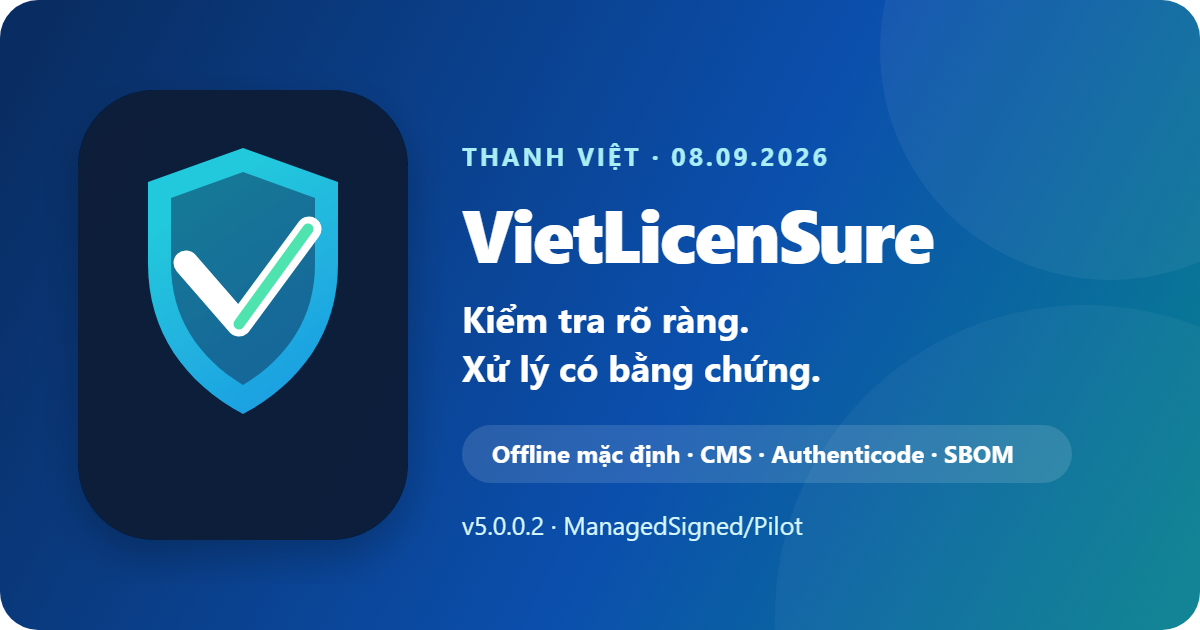
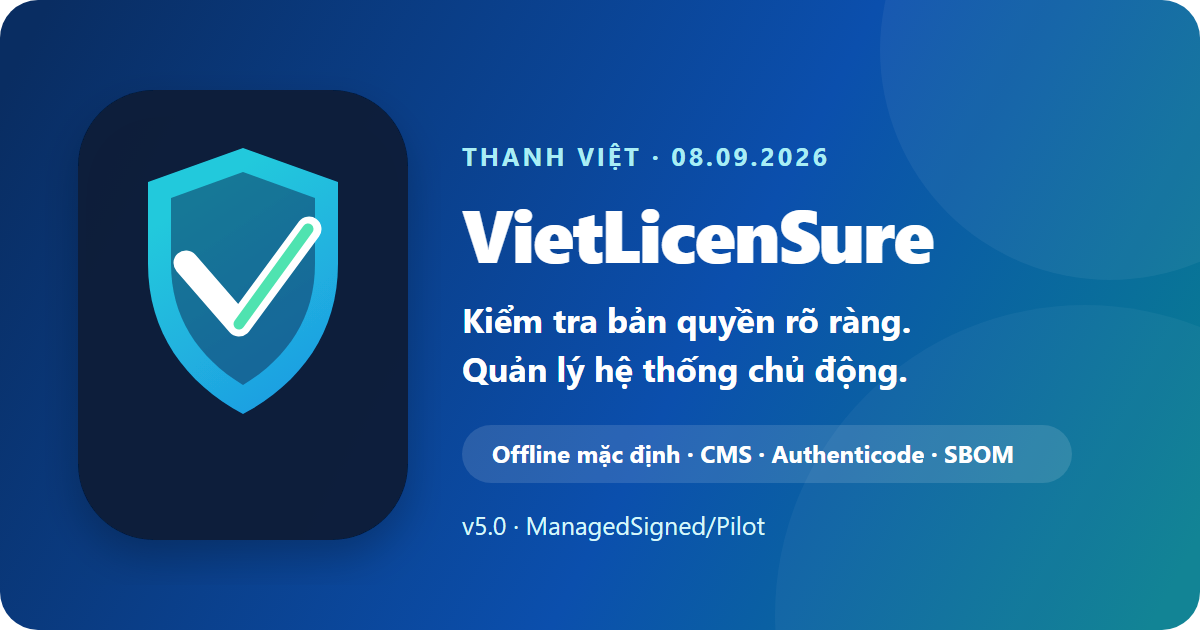
release(v5.0): publish canonical release and complete history

diff --git a/docs/index.html b/docs/index.html
@@ -27,10 +27,10 @@
     "name":"VietLicenSure",
     "applicationCategory":"UtilitiesApplication",
     "operatingSystem":"Windows 10, Windows 11",
-    "softwareVersion":"5.0.0.2",
+    "softwareVersion":"5.0",
     "dateModified":"2026-09-08",
-    "downloadUrl":"https://github.com/thanhvietithopnghia-rgb/VietLicenSure/releases/download/v5.0.0.2/VietLicenSure-v5.0.exe",
-    "releaseNotes":"https://github.com/thanhvietithopnghia-rgb/VietLicenSure/releases/tag/v5.0.0.2",
+    "downloadUrl":"https://github.com/thanhvietithopnghia-rgb/VietLicenSure/releases/download/v5.0/VietLicenSure-v5.0.exe",
+    "releaseNotes":"https://github.com/thanhvietithopnghia-rgb/VietLicenSure/releases/tag/v5.0",
     "author":{"@type":"Person","name":"Thanh Việt"},
     "offers":{"@type":"Offer","price":"0","priceCurrency":"VND"}
   }
@@ -60,17 +60,18 @@
 
   <div id="top" class="wrap hero">
     <div>
-      <div class="eyebrow">v5.0.0.2 · ManagedSigned/Pilot · 08/09/2026</div>
-      <h1>Kiểm tra rõ ràng.<br>Xử lý có bằng chứng.</h1>
-      <p class="lead"><strong>VietLicenSure</strong> là công cụ miễn phí dành cho người dùng Windows, kỹ thuật viên và quản trị viên cần kiểm tra trạng thái Windows, Office và phần mềm đã cài. Công cụ gom kết quả về một nơi, giải thích bằng chứng, tạo báo cáo đã che định danh và chỉ khắc phục sau bước xem trước — thay vì buộc người dùng tự ghép nhiều lệnh rời rạc.</p>
+      <div class="eyebrow">v5.0 · ManagedSigned/Pilot · 08/09/2026</div>
+      <h1>Kiểm tra bản quyền rõ ràng.<br>Quản lý hệ thống chủ động.</h1>
+      <p><strong>An tâm sử dụng.</strong></p>
+      <p class="lead"><strong>VietLicenSure — Phần mềm kiểm tra và quản lý bản quyền hệ thống</strong> hỗ trợ người dùng cá nhân, kỹ thuật viên, nhân viên IT và doanh nghiệp kiểm tra Windows, Microsoft Office/Microsoft 365, phần mềm đã cài và thông tin hệ thống. VietLicenSure gom kết quả về một nơi, giải thích bằng chứng, hỗ trợ kiểm kê và tạo báo cáo đã che định danh — thay vì buộc người dùng tự ghép nhiều lệnh rời rạc.</p>
       <div class="badges"><span class="badge">Offline mặc định</span><span class="badge">Không telemetry</span><span class="badge">Catalog ký số</span><span class="badge">Có backup &amp; hậu kiểm</span></div>
-      <div class="actions"><a class="button primary" href="https://github.com/thanhvietithopnghia-rgb/VietLicenSure/releases/download/v5.0.0.2/VietLicenSure-v5.0.exe" download>Tải VietLicenSure</a><a class="button secondary" href="https://github.com/thanhvietithopnghia-rgb/VietLicenSure/releases/tag/v5.0.0.2">Mở trang Releases</a><a class="button secondary" href="huong-dan.html">Hướng dẫn người mới</a></div>
+      <div class="actions"><a class="button primary" href="https://github.com/thanhvietithopnghia-rgb/VietLicenSure/releases/download/v5.0/VietLicenSure-v5.0.exe" download>Tải VietLicenSure</a><a class="button secondary" href="https://github.com/thanhvietithopnghia-rgb/VietLicenSure/releases/tag/v5.0">Mở trang Releases</a><a class="button secondary" href="huong-dan.html">Hướng dẫn người mới</a></div>
     </div>
     <aside id="verify-official-build" class="verify">
       <h2>Xác minh trước khi chạy</h2>
       <p>Tệp chính thức: <strong>VietLicenSure-v5.0.exe</strong></p>
-      <div class="hash"><div class="hash-label"><span>SHA-256</span><button class="copy" type="button" data-copy-target="release-hash">Sao chép</button></div><code id="release-hash">EE9F49A2077C85D81C4D243FEC26209ED15E0418E209FF588F887C2CFC4AC4C7</code></div>
-      <p><strong>Build ID:</strong> 5.0.0.2-production-20260908</p>
+      <div class="hash"><div class="hash-label"><span>SHA-256</span><button class="copy" type="button" data-copy-target="release-hash">Sao chép</button></div><code id="release-hash">586E6D58F70CD501E95BE8735D6C739068822786EB0E7BFEB7C573AEF6A57849</code></div>
+      <p><strong>Build ID:</strong> 5.0-production-20260908</p>
       <p>Chạy <code>VERIFY-RELEASE.cmd</code> trong gói để kiểm tra checksum, bốn chữ ký CMS, chứng thư, Authenticode, manifest và SBOM. <a href="https://github.com/thanhvietithopnghia-rgb/VietLicenSure/blob/main/RELEASE-VERIFICATION-v5.0.md">Đọc quy trình đầy đủ</a>.</p>
     </aside>
   </div>
@@ -101,8 +102,8 @@
 
     <section id="versions" class="wrap">
       <div class="kicker">Lịch sử sản phẩm</div>
-      <h2>v5.0 khác gì so với v4.8 và v4.9?</h2>
-      <div class="table-wrap"><table class="compare"><thead><tr><th>Nhóm</th><th>v4.8</th><th>v4.9</th><th>v5.0.0.2</th></tr></thead><tbody><tr><td>Nền tảng</td><td>Baseline kiến trúc, Offline/reporting</td><td>Siết nguồn gốc và catalog</td><td class="current">Hợp đồng mô-đun, dashboard thích ứng, ManagedSigned</td></tr><tr><td>Chuỗi phát hành</td><td>Hash và hardening nền</td><td>Provenance/chính sách mã nguồn</td><td class="current">Tập tệp đóng, 4 CMS, cert công bố, Authenticode, SBOM</td></tr><tr><td>Quét phần mềm</td><td>Windows/Office và inventory nền</td><td>Catalog mở rộng, bằng chứng thận trọng</td><td class="current">Quick/Standard/Deep, budget và trust gate</td></tr><tr><td>Khắc phục</td><td>Backup và luồng an toàn</td><td>Evidence threshold chặt hơn</td><td class="current">Preview, scope-lock, UAC theo nhu cầu, hậu kiểm/rollback</td></tr><tr><td>Trải nghiệm</td><td>Giao diện chức năng</td><td>Bổ sung trợ lý/chính sách</td><td class="current">Dark/light, DPI, Result Center và tài liệu trong ứng dụng</td></tr></tbody></table></div>
+      <h2>v5.0 — bản nâng cấp trực tiếp tiếp theo của v4.9</h2>
+      <div class="table-wrap"><table class="compare"><thead><tr><th>Nhóm</th><th>v4.8</th><th>v4.9</th><th>v5.0</th></tr></thead><tbody><tr><td>Nền tảng</td><td>Baseline kiến trúc, Offline/reporting</td><td>Siết nguồn gốc và catalog</td><td class="current">Hợp đồng mô-đun, dashboard thích ứng, ManagedSigned</td></tr><tr><td>Chuỗi phát hành</td><td>Hash và hardening nền</td><td>Provenance/chính sách mã nguồn</td><td class="current">Tập tệp đóng, 4 CMS, cert công bố, Authenticode, SBOM</td></tr><tr><td>Quét phần mềm</td><td>Windows/Office và inventory nền</td><td>Catalog mở rộng, bằng chứng thận trọng</td><td class="current">Quick/Standard/Deep, budget và trust gate</td></tr><tr><td>Khắc phục</td><td>Backup và luồng an toàn</td><td>Evidence threshold chặt hơn</td><td class="current">Preview, scope-lock, UAC theo nhu cầu, hậu kiểm/rollback</td></tr><tr><td>Trải nghiệm</td><td>Giao diện chức năng</td><td>Bổ sung trợ lý/chính sách</td><td class="current">Dark/light, DPI, Result Center và tài liệu trong ứng dụng</td></tr></tbody></table></div>
     </section>
 
     <section class="wrap">
@@ -114,13 +115,13 @@
     <section id="documents" class="wrap docs">
       <div class="kicker">Tài liệu tách theo nhu cầu</div>
       <h2>Không cần đọc một trang thật dài</h2>
-      <div class="grid three"><article class="card"><h3>Người mới</h3><p><a href="huong-dan.html">Hướng dẫn từng bước</a><br>Tải, xác minh, chạy, đọc và xử lý kết quả.</p></article><article class="card"><h3>Xác minh phát hành</h3><p><a href="https://github.com/thanhvietithopnghia-rgb/VietLicenSure/blob/main/RELEASE-VERIFICATION-v5.0.md">Checksum, CMS và Authenticode</a><br>Cách phân biệt lỗi chữ ký thật với lỗi line ending.</p></article><article class="card"><h3>Kiến trúc &amp; an toàn</h3><p><a href="https://github.com/thanhvietithopnghia-rgb/VietLicenSure/blob/main/DOCUMENTATION-MAP-v5.0.md">Bản đồ tài liệu</a><br><a href="https://github.com/thanhvietithopnghia-rgb/VietLicenSure/blob/main/THREAT-MODEL-v5.0.md">Mô hình đe dọa v5.0</a></p></article><article class="card"><h3>Thay đổi phiên bản</h3><p><a href="https://github.com/thanhvietithopnghia-rgb/VietLicenSure/releases/tag/v5.0.0.2">Release notes v5.0.0.2</a><br>Phiên bản, tài sản tải và ghi chú kênh phát hành.</p></article><article class="card"><h3>Giới hạn</h3><p><a href="https://github.com/thanhvietithopnghia-rgb/VietLicenSure/blob/main/KNOWN-LIMITATIONS-v5.0.md">Known limitations</a><br>Những điều công cụ chưa hoặc không thể bảo đảm.</p></article><article class="card"><h3>Mã nguồn</h3><p><a href="https://github.com/thanhvietithopnghia-rgb/VietLicenSure/blob/main/SOURCE-POLICY-v4.9.md">Chính sách từ v4.9</a><br>Phạm vi sử dụng và quy trình xin quyền truy cập.</p></article></div>
+      <div class="grid three"><article class="card"><h3>Người mới</h3><p><a href="huong-dan.html">Hướng dẫn từng bước</a><br>Tải, xác minh, chạy, đọc và xử lý kết quả.</p></article><article class="card"><h3>Xác minh phát hành</h3><p><a href="https://github.com/thanhvietithopnghia-rgb/VietLicenSure/blob/main/RELEASE-VERIFICATION-v5.0.md">Checksum, CMS và Authenticode</a><br>Cách phân biệt lỗi chữ ký thật với lỗi line ending.</p></article><article class="card"><h3>Kiến trúc &amp; an toàn</h3><p><a href="https://github.com/thanhvietithopnghia-rgb/VietLicenSure/blob/main/DOCUMENTATION-MAP-v5.0.md">Bản đồ tài liệu</a><br><a href="https://github.com/thanhvietithopnghia-rgb/VietLicenSure/blob/main/THREAT-MODEL-v5.0.md">Mô hình đe dọa v5.0</a></p></article><article class="card"><h3>Thay đổi phiên bản</h3><p><a href="https://github.com/thanhvietithopnghia-rgb/VietLicenSure/releases/tag/v5.0">Release notes v5.0</a><br>Phiên bản, tài sản tải và ghi chú kênh phát hành.</p></article><article class="card"><h3>Giới hạn</h3><p><a href="https://github.com/thanhvietithopnghia-rgb/VietLicenSure/blob/main/KNOWN-LIMITATIONS-v5.0.md">Known limitations</a><br>Những điều công cụ chưa hoặc không thể bảo đảm.</p></article><article class="card"><h3>Mã nguồn</h3><p><a href="https://github.com/thanhvietithopnghia-rgb/VietLicenSure/blob/main/SOURCE-POLICY-v4.9.md">Chính sách từ v4.9</a><br>Phạm vi sử dụng và quy trình xin quyền truy cập.</p></article></div>
     </section>
 
     <section id="project" class="wrap">
       <div class="kicker">Tác giả và dự án</div>
       <h2>Một dự án độc lập, công khai kênh hỗ trợ</h2>
-      <div class="grid"><article class="card"><h3>Thanh Việt · tác giả và maintainer</h3><p>VietLicenSure được phát triển để biến các kiểm tra license rời rạc thành một quy trình có thể giải thích, xác minh và hoàn tác. Dự án tiếp nhận báo lỗi, đề xuất, tài liệu và kiểm thử cộng đồng; mã nguồn được quản lý theo chính sách truy cập có kiểm soát.</p></article><article class="card"><h3>Trạng thái phát hành</h3><p>v5.0.0.2 đang ở kênh <strong>ManagedSigned/Pilot</strong>, không gắn nhãn Public Stable. Kiểm thử cục bộ không được dùng thay cho ma trận Windows 10/11 sạch và duyệt độc lập.</p></article></div>
+      <div class="grid"><article class="card"><h3>Từ Tool Kiểm Tra đến VietLicenSure</h3><p>Dự án trước đây mang tên <strong>Tool Kiểm Tra — Công cụ kiểm tra máy và bản quyền phần mềm</strong>. Khi được mở rộng từ kiểm tra đơn lẻ sang kiểm kê, phân tích bằng chứng, báo cáo và hỗ trợ quản lý thiết bị, dự án đổi tên thành <strong>VietLicenSure — Phần mềm kiểm tra và quản lý bản quyền hệ thống</strong>. v5.0 là bản nâng cấp trực tiếp tiếp theo của v4.9.</p></article><article class="card"><h3>Thanh Việt · tác giả và người phát triển</h3><p>Tác giả là một nhân viên văn phòng có niềm đam mê với lập trình. VietLicenSure ra đời từ mong muốn thay nhiều lệnh và công cụ rời rạc bằng một quy trình dễ sử dụng, giúp mọi người giảm thời gian kiểm tra máy tính và giúp bộ phận IT, doanh nghiệp kiểm kê rõ ràng hơn.</p></article><article class="card"><h3>Cập nhật an toàn</h3><p>Khi người dùng bật Online, VietLicenSure tự kiểm tra bản v5.0 mới nhất. Updater chỉ thay tệp sau khi người dùng chấp thuận và các bước xác minh CMS, SHA-256, Authenticode cùng signer đã ghim đều đạt.</p></article><article class="card"><h3>Trạng thái phát hành</h3><p>v5.0 đang ở kênh <strong>ManagedSigned/Pilot</strong>, không gắn nhãn Public Stable. Kiểm thử cục bộ không được dùng thay cho ma trận Windows 10/11 sạch và duyệt độc lập.</p></article></div>
       <div class="stats" aria-label="Số liệu kho GitHub cập nhật ngày 08/09/2026"><div class="stat"><strong>8</strong><span>GitHub stars</span></div><div class="stat"><strong>5</strong><span>forks</span></div><div class="stat"><strong>11</strong><span>releases</span></div><div class="stat"><strong>2</strong><span>contributors</span></div></div><p class="contact-note">Số liệu tĩnh được ghi nhận từ kho GitHub công khai ngày 08/09/2026 và có thể thay đổi.</p>
     </section>
 

diff --git a/docs/huong-dan.html b/docs/huong-dan.html
@@ -13,11 +13,11 @@
 <body>
   <header class="wrap"><a class="brand" href="index.html"><img src="logo.svg" width="42" height="42" alt="">VietLicenSure</a><a href="index.html">← Trang chủ</a></header>
   <main class="wrap">
-    <section class="hero"><div class="tag">Hướng dẫn người mới · v5.0.0.2</div><h1>Tải đúng, kiểm tra đúng, xử lý an toàn</h1><p>Bạn không cần biết PowerShell để dùng VietLicenSure. Hãy làm theo năm bước dưới đây và dừng lại nếu checksum hoặc chữ ký không đạt.</p></section>
+    <section class="hero"><div class="tag">Hướng dẫn người mới · v5.0</div><h1>Tải đúng, kiểm tra đúng, xử lý an toàn</h1><p>Bạn không cần biết PowerShell để dùng VietLicenSure. Hãy làm theo năm bước dưới đây và dừng lại nếu checksum hoặc chữ ký không đạt.</p></section>
 
-    <section class="step"><h2><span class="number">1</span>Tải từ nguồn chính thức</h2><p>Dùng một trong hai liên kết dưới đây. Không dùng EXE được gửi lại qua diễn đàn, kho lưu trữ lạ hoặc đã đổi tên/đóng gói.</p><div class="actions"><a class="button primary" href="https://github.com/thanhvietithopnghia-rgb/VietLicenSure/releases/download/v5.0.0.2/VietLicenSure-v5.0.exe" download>Tải EXE v5.0.0.2</a><a class="button" href="https://github.com/thanhvietithopnghia-rgb/VietLicenSure/releases/tag/v5.0.0.2">Xem Releases</a></div></section>
+    <section class="step"><h2><span class="number">1</span>Tải từ nguồn chính thức</h2><p>Dùng một trong hai liên kết dưới đây. Không dùng EXE được gửi lại qua diễn đàn, kho lưu trữ lạ hoặc đã đổi tên/đóng gói.</p><div class="actions"><a class="button primary" href="https://github.com/thanhvietithopnghia-rgb/VietLicenSure/releases/download/v5.0/VietLicenSure-v5.0.exe" download>Tải EXE v5.0</a><a class="button" href="https://github.com/thanhvietithopnghia-rgb/VietLicenSure/releases/tag/v5.0">Xem Releases</a></div></section>
 
-    <section class="step"><h2><span class="number">2</span>Xác minh trước khi mở</h2><p>Nếu bạn có gói đầy đủ, nhấp đúp <code>VERIFY-RELEASE.cmd</code>. Kết quả cần là <span class="good">0 lỗi</span>.</p><p>SHA-256 EXE chính thức:</p><pre class="hash" id="release-hash">EE9F49A2077C85D81C4D243FEC26209ED15E0418E209FF588F887C2CFC4AC4C7</pre><button type="button" class="copy" data-copy-target="release-hash">Sao chép SHA-256</button><p>Nếu chỉ có EXE, mở Windows PowerShell tại thư mục tải và chạy:</p><pre>Get-FileHash .\VietLicenSure-v5.0.exe -Algorithm SHA256
+    <section class="step"><h2><span class="number">2</span>Xác minh trước khi mở</h2><p>Nếu bạn có gói đầy đủ, nhấp đúp <code>VERIFY-RELEASE.cmd</code>. Kết quả cần là <span class="good">0 lỗi</span>.</p><p>SHA-256 EXE chính thức:</p><pre class="hash" id="release-hash">586E6D58F70CD501E95BE8735D6C739068822786EB0E7BFEB7C573AEF6A57849</pre><button type="button" class="copy" data-copy-target="release-hash">Sao chép SHA-256</button><p>Nếu chỉ có EXE, mở Windows PowerShell tại thư mục tải và chạy:</p><pre>Get-FileHash .\VietLicenSure-v5.0.exe -Algorithm SHA256
 Get-AuthenticodeSignature .\VietLicenSure-v5.0.exe</pre><div class="notice"><strong>Dừng lại</strong> nếu hash khác, trạng thái là <code>HashMismatch</code>/<code>NotSigned</code>, signer không khớp hồ sơ hoặc gói báo CMS lỗi. Cảnh báo publisher trên một máy mới có thể do chứng thư ManagedSigned tự ký chưa được tin cậy; nó không cho phép bỏ qua kiểm tra hash và fingerprint.</div></section>
 
     <section class="step"><h2><span class="number">3</span>Chạy bằng tài khoản thường</h2><p>Mở <code>VietLicenSure-v5.0.exe</code>. Dashboard dùng quyền người dùng hiện tại. Chỉ chấp nhận UAC khi bạn vừa chọn một tác vụ cần đọc toàn máy hoặc thay đổi hệ thống; không cần chạy toàn bộ ứng dụng bằng “Run as administrator”.</p><p>Giữ <strong>Offline</strong> nếu chỉ kiểm tra cục bộ. Chỉ bật Online khi chủ động kiểm tra cập nhật/catalog hoặc dùng chức năng LAN đã được tổ chức cho phép.</p></section>

diff --git a/README.md b/README.md
@@ -1,10 +1,16 @@
 # VietLicenSure v5.0 — Phần mềm Kiểm tra và Quản lý Bản quyền Hệ thống
 
-- **Bản phát hành hiện tại:** VietLicenSure v5.0 · bản kỹ thuật `5.0.0.2` · phát hành ngày 08/09/2026
+- **Bản phát hành hiện tại:** VietLicenSure v5.0 · phát hành ngày 08/09/2026
 - **Tác giả và phát triển:** Thanh Việt
 - **Trang phát hành công khai:** <https://thanhvietithopnghia-rgb.github.io/VietLicenSure/>
 
-Ngày 06/09/2026, v5.0 chính thức đổi tên từ **Tool Kiểm Tra Máy Tính — Công cụ kiểm tra cấu hình máy và bản quyền phần mềm** thành **VietLicenSure — Phần mềm Kiểm tra và Quản lý Bản quyền Hệ thống**. Việc đổi tên không loại bỏ chức năng và giữ nguyên dòng phiên bản v5.0.
+> **Kiểm tra bản quyền rõ ràng – Quản lý hệ thống chủ động – An tâm sử dụng.**
+
+VietLicenSure là phần mềm hỗ trợ kiểm tra Windows, Microsoft Office, Microsoft 365, phần mềm đã cài đặt và các thông tin liên quan đến cấu hình, kích hoạt, giấy phép và kiểm kê hệ thống. Sản phẩm phù hợp với người dùng cá nhân, kỹ thuật viên, nhân viên IT và doanh nghiệp cần kiểm tra nhiều máy hoặc lập báo cáo quản lý phần mềm.
+
+Dự án trước đây mang tên **Tool Kiểm Tra — Công cụ kiểm tra máy và bản quyền phần mềm**. Khi phạm vi phát triển vượt ra ngoài một công cụ kiểm tra đơn lẻ, dự án được đổi tên thành **VietLicenSure — Phần mềm Kiểm tra và Quản lý Bản quyền Hệ thống**. Tên mới phản ánh đầy đủ hơn định hướng kiểm tra, giải thích bằng chứng, kiểm kê, báo cáo và hỗ trợ quản lý thiết bị.
+
+VietLicenSure được phát triển bởi Thanh Việt, một nhân viên văn phòng có niềm đam mê với lập trình và công nghệ. Từ nhu cầu thực tế phải dùng nhiều lệnh và công cụ rời rạc để kiểm tra máy tính, tác giả xây dựng dự án với mong muốn giúp mọi người rút ngắn thời gian thao tác, dễ hiểu kết quả hơn và có một quy trình an toàn để kiểm tra Windows, Office cùng các phần mềm khác.
 
 ## Ý nghĩa tên VietLicenSure
 
@@ -14,20 +20,21 @@ Ngày 06/09/2026, v5.0 chính thức đổi tên từ **Tool Kiểm Tra Máy Tí
 
 Tên VietLicenSure thể hiện mục tiêu giúp người dùng kiểm tra, xác minh, quản lý và khắc phục tình trạng bản quyền hệ thống theo quy trình an toàn. Phần mềm cung cấp bằng chứng kỹ thuật, không thay thế chứng nhận hoặc kết luận pháp lý về quyền sử dụng.
 
-VietLicenSure v5.0 là bản nâng cấp tiếp theo của v4.9, tập trung nâng cấp vào các phần cốt lõi:
+VietLicenSure v5.0 là bản nâng cấp trực tiếp tiếp theo của v4.9, tập trung vào sáu nhóm cải tiến cốt lõi:
 
-- **Trải nghiệm sử dụng:** khởi động nhanh hơn, giao diện rõ ràng và thích ứng tốt hơn, hỗ trợ Light/Dark và mở thẳng đúng chức năng cần dùng.
-- **Kiểm tra và nhận diện:** ba mức quét Quick, Standard và Deep; kiểm tra Windows, Microsoft Office và phần mềm khác; sắp xếp việc cần xem theo mức ưu tiên, hỗ trợ tìm kiếm, lọc và so sánh với lần quét trước.
-- **Khắc phục an toàn:** tách riêng Windows, Office và phần mềm khác; bắt buộc xem trước, chạy thử, sao lưu, xác nhận và kiểm tra lại; bổ sung trung tâm sao lưu–khôi phục có kiểm tra toàn vẹn.
-- **Báo cáo và hỗ trợ:** báo cáo HTML, PDF, JSON, XML; tạo gói hỗ trợ có che thông tin nhạy cảm và hỗ trợ quản lý nhiều máy.
-- **Riêng tư và toàn vẹn:** hoạt động Offline theo mặc định, không tự gửi dữ liệu ra Internet; kiểm tra chữ ký và SHA-256 trước các thao tác quan trọng.
+- **Giao diện và trải nghiệm:** khởi động nhanh hơn, bố cục thích ứng theo DPI, hỗ trợ Sáng/Tối, điều hướng rõ ràng và mở thẳng đúng chức năng cần dùng.
+- **Kiểm tra Windows, Office và phần mềm:** bổ sung ba mức quét Quick, Standard và Deep; mở rộng nguồn kiểm kê; phân biệt trạng thái kích hoạt, loại giấy phép, lỗi đọc dữ liệu và trường hợp chưa đủ bằng chứng.
+- **Phân tích và quản lý kết quả:** sắp xếp việc cần xem theo mức Cao–Trung bình–Thấp, hỗ trợ tìm kiếm, lọc, so sánh với lần quét trước và quản lý nhiều thiết bị.
+- **Khắc phục an toàn:** tách riêng Windows, Office và phần mềm khác; bắt buộc xem trước, Dry Run, sao lưu, xác nhận đúng phạm vi, hậu kiểm và hỗ trợ rollback.
+- **Báo cáo và quyền riêng tư:** xuất HTML, PDF, JSON, XML/CSV; tạo gói hỗ trợ đã che thông tin nhạy cảm và không tự gửi dữ liệu máy ra Internet.
+- **Cập nhật và toàn vẹn phát hành:** tự kiểm tra bản mới khi người dùng bật Online, tải đúng bản v5.0 mới nhất sau khi được chấp thuận, rồi xác minh CMS, SHA-256 và chữ ký Authenticode trước khi thay thế tệp hiện tại.
 
 Bản hiện tại dùng chứng thư tự ký được launcher ghim nên Windows vẫn có thể hiện `Unknown publisher` hoặc SmartScreen.
 
 ## Tải và bắt đầu
 
-1. Tải trực tiếp [VietLicenSure v5.0.0.2](https://github.com/thanhvietithopnghia-rgb/VietLicenSure/releases/download/v5.0.0.2/VietLicenSure-v5.0.exe) từ tài sản phát hành chính thức.
-2. Người đang dùng ProductVersion/FileVersion `5.0.0.0` có thể tải `VietLicenSure-v5.0.exe` và thay tệp cũ; dữ liệu cũ được giữ làm nguồn tương thích/migration.
+1. Tải trực tiếp [VietLicenSure v5.0](https://github.com/thanhvietithopnghia-rgb/VietLicenSure/releases/download/v5.0/VietLicenSure-v5.0.exe) từ tài sản phát hành chính thức.
+2. Người đang dùng một bản v5.0 cũ có thể tải lại `VietLicenSure-v5.0.exe`; dữ liệu cũ vẫn được giữ làm nguồn tương thích/migration.
 3. Nếu tải gói đầy đủ, chạy `VERIFY-RELEASE.cmd`; script tự định vị và kiểm tra checksum, bốn chữ ký CMS, chứng thư công bố, Authenticode, manifest và SBOM. Nếu chỉ tải EXE, đối chiếu SHA-256 và chữ ký thủ công. Không tắt Defender hoặc SmartScreen để ép chạy tệp không xác minh được.
 4. Giữ Offline nếu chỉ kiểm tra máy cục bộ. Chỉ bật Online khi muốn cập nhật VietLicenSure/catalog hoặc dùng chức năng LAN được cho phép.
 5. Chỉ chấp nhận UAC khi tên tác vụ đúng với thao tác khắc phục, cập nhật hoặc quản trị mà bạn vừa chọn.
@@ -113,7 +120,7 @@ Hiện chưa có ngày cam kết mở lại mã nguồn. Tác giả sẽ xem xé
 ## Nguồn chính thức và hỗ trợ
 
 - Kho phát hành: <https://github.com/thanhvietithopnghia-rgb/VietLicenSure>
-- Tải EXE v5.0.0.2: <https://github.com/thanhvietithopnghia-rgb/VietLicenSure/releases/download/v5.0.0.2/VietLicenSure-v5.0.exe>
+- Tải EXE v5.0: <https://github.com/thanhvietithopnghia-rgb/VietLicenSure/releases/download/v5.0/VietLicenSure-v5.0.exe>
 - Báo lỗi: <https://github.com/thanhvietithopnghia-rgb/VietLicenSure/issues/new/choose>
 - Hỏi đáp và đề xuất: <https://github.com/thanhvietithopnghia-rgb/VietLicenSure/discussions>
 - Báo cáo bảo mật riêng tư: <https://github.com/thanhvietithopnghia-rgb/VietLicenSure/security/advisories/new>

diff --git a/RELEASE-NOTES-v5.0.md b/RELEASE-NOTES-v5.0.md
@@ -3,34 +3,36 @@
 Ngày build kỹ thuật: `2026-09-08`
 Ngày phát hành: `08/09/2026`
 Phiên bản hiển thị: `v5.0`
-Mã kỹ thuật tương thích Windows/updater: `5.0.0.2`
 Trạng thái: `ManagedSigned`; launcher ghim đúng signer và certificate SHA-256
 
 ## Giới thiệu
 
-Ngày 06/09/2026, v5.0 chính thức đổi tên từ **Tool Kiểm Tra Máy Tính — Công cụ kiểm tra cấu hình máy và bản quyền phần mềm** thành **VietLicenSure — Phần mềm Kiểm tra và Quản lý Bản quyền Hệ thống**. VietLicenSure giữ đầy đủ chức năng của bản trước và thống nhất tên phiên bản hiển thị là **v5.0**.
+> **Kiểm tra bản quyền rõ ràng – Quản lý hệ thống chủ động – An tâm sử dụng.**
 
-Tên gọi kết hợp **Viet** (do người Việt phát triển), **Licen** (`License` — giấy phép/bản quyền phần mềm) và **Sure** (rõ ràng, có kiểm chứng trong phạm vi bằng chứng kỹ thuật). Phần mềm tập trung nâng cấp trải nghiệm sử dụng, khả năng kiểm tra–nhận diện, quy trình khắc phục an toàn, báo cáo và bảo vệ dữ liệu. VietLicenSure hoạt động Offline theo mặc định, không tự tải inventory hoặc báo cáo lên Internet và chỉ dùng Online khi người dùng chủ động cho phép.
+VietLicenSure v5.0 là bản nâng cấp trực tiếp tiếp theo của v4.9. Dự án được đổi tên từ **Tool Kiểm Tra — Công cụ kiểm tra máy và bản quyền phần mềm** thành **VietLicenSure — Phần mềm kiểm tra và quản lý bản quyền hệ thống** để phản ánh phạm vi mới: kiểm tra Windows, Microsoft Office/Microsoft 365, phần mềm đã cài, cấu hình và dữ liệu kiểm kê trên một quy trình thống nhất.
 
-## Cập nhật v5.0.0.2 ngày 08/09/2026
+VietLicenSure được phát triển bởi Thanh Việt, một nhân viên văn phòng có niềm đam mê với lập trình. Dự án bắt đầu từ mong muốn thay thế nhiều lệnh và công cụ kiểm tra rời rạc bằng một phần mềm dễ sử dụng hơn cho người dùng cá nhân, kỹ thuật viên, nhân viên IT và doanh nghiệp. VietLicenSure cung cấp bằng chứng kỹ thuật và hỗ trợ quản lý; không kích hoạt trái phép và không thay thế hóa đơn, hợp đồng hoặc kết luận pháp lý về quyền sử dụng.
+
+Tên gọi kết hợp **Viet** (người Việt phát triển), **Licen** (`License` — giấy phép/bản quyền phần mềm) và **Sure** (rõ ràng, có kiểm chứng trong phạm vi bằng chứng kỹ thuật).
+
+## Những nâng cấp cốt lõi từ v4.9 lên v5.0
+
+- **Giao diện và trải nghiệm:** khởi động nhanh hơn, bố cục thích ứng DPI, hỗ trợ Sáng/Tối, điều hướng rõ ràng và mở thẳng đúng chức năng.
+- **Kiểm tra Windows, Office và phần mềm:** ba mức Quick, Standard và Deep; mở rộng nguồn kiểm kê; phân biệt trạng thái kích hoạt, loại giấy phép, lỗi đọc dữ liệu và trường hợp chưa đủ bằng chứng.
+- **Phân tích và quản lý:** xếp ưu tiên Cao–Trung bình–Thấp, tìm kiếm, lọc, so sánh lần quét, timeline và hỗ trợ quản lý nhiều thiết bị.
+- **Khắc phục an toàn:** tách phạm vi Windows, Microsoft Office và phần mềm khác; bắt buộc xem trước, Dry Run, sao lưu, xác nhận đúng mục tiêu, hậu kiểm và rollback.
+- **Báo cáo và quyền riêng tư:** xuất HTML/PDF/JSON/XML/CSV, che thông tin nhạy cảm theo mặc định, tạo gói hỗ trợ an toàn và không tự tải dữ liệu máy lên Internet.
+- **Cập nhật và chuỗi tin cậy:** khi người dùng bật Online, phần mềm tự kiểm tra bản v5.0 mới nhất; trước khi thay thế tệp, updater xác minh manifest CMS, SHA-256, Authenticode và signer đã ghim.
+- **Trợ lý và tài liệu:** lập chỉ mục hướng dẫn cùng lịch sử phiên bản Việt–Anh, giải thích đầy đủ các chức năng và chỉ đối chiếu theo hồ sơ đã ghi nhận.
+
+## Chính sách và kênh hỗ trợ của v5.0
 
 - Công bố rõ lý do chuyển sang mô hình mã nguồn có kiểm soát từ v4.9: tác giả phát hiện VietLicenSure hoặc phiên bản tiền thân bị sao chép, chỉnh sửa, đổi tên/đóng gói và phát hành thành phần mềm khác khi chưa được cho phép hay ủy quyền.
 - Xác định phạm vi kiểm soát gồm mã triển khai, giao diện, logic nghiệp vụ, quy tắc nhận diện/khắc phục, build–đóng gói–phát hành, kiểm thử và tài liệu kỹ thuật nội bộ.
 - Công bố quy trình yêu cầu truy cập bằng văn bản, phạm vi quyền được cấp và nguyên tắc quyền xem không đồng nghĩa quyền sử dụng lại.
 - Xác nhận chưa cam kết ngày mở lại mã nguồn; chính sách được xem xét định kỳ theo khả năng bảo vệ sở hữu trí tuệ, kiểm soát truy cập, thông tin nhạy cảm và chuỗi phát hành.
 - Bổ sung kênh tương tác hai chiều: GitHub Issues cho báo lỗi, GitHub Discussions cho hỏi đáp/đề xuất và Private Security Advisory cho lỗ hổng bảo mật.
-- Đồng bộ tên hiển thị `VietLicenSure v5.0`, phiên bản kỹ thuật `5.0.0.2` và ngày phát hành `08/09/2026` trong ứng dụng, tài liệu và kênh công khai.
-
-## Cập nhật v5.0 ngày 06/09/2026
-
-- Trợ lý lập chỉ mục toàn bộ HDSD và lịch sử phiên bản Việt–Anh, dùng được Offline và bao phủ mọi chức năng được tài liệu hóa.
-- Hỏi một phiên bản có hồ sơ sẽ nhận đúng mục thay đổi; hỏi hai phiên bản sẽ nhận đối chiếu trực tiếp, không suy diễn ngoài tài liệu; “bản hiện tại” và “mới nhất” được hiểu là v5.0.
-- Đồng bộ tên VietLicenSure và v5.0 trên Dashboard, Trợ lý, Giới thiệu, quản lý doanh nghiệp, tài liệu và trang GitHub.
-- Sửa vùng tiêu đề/mô tả Trợ lý bị cắt và bổ sung kiểm thử UI tự động ở Việt/Anh, Sáng/Tối để chặn lỗi thiếu chữ tái diễn.
-- Mọi mục HDSD có thể được gọi đúng theo tên: 10 chức năng chính, bốn lựa chọn khắc phục/backup, quản lý giấy phép cục bộ–doanh nghiệp và tám tác vụ của Trung tâm Báo cáo & Bảo đảm.
-- Khôi phục các mốc v1.0.0–v1.0.9 bị lược bỏ và sửa nội dung v1.1.0–v3.3 theo hồ sơ phát hành gốc; xác định rõ không có hồ sơ v2.0–v2.3.
-- Giải thích đầy đủ quy trình OEM: kiểm tra OA3 chỉ đọc, che key, xác nhận quyền/edition, áp dụng bằng cơ chế Windows chính thức và hậu kiểm tối đa ba lần; đây là một phần của độ phủ toàn bộ chức năng.
-- Bổ sung kiểm thử chống nhầm phiên bản Windows/Office/PowerShell/.NET với lịch sử phần mềm, kiểm thử mọi mục chức năng và kiểm thử toàn vẹn chỉ mục tài liệu.
+- Đồng bộ duy nhất tên `VietLicenSure v5.0` trong ứng dụng, tài liệu, bộ cập nhật và các kênh công khai.
 
 ## Cập nhật kỹ thuật ngày 05/09/2026
 

diff --git a/VERSION-HISTORY-en-US.md b/VERSION-HISTORY-en-US.md
@@ -5,17 +5,17 @@ This document summarizes the core changes in every recorded version, from the fi
 Public product page:
 <https://thanhvietithopnghia-rgb.github.io/VietLicenSure/>
 
-## v5.0 / 5.0.0.2 — September 8, 2026
+## v5.0 — September 8, 2026
 
-- The v5.0 line was introduced on September 6, 2026 under the official name **VietLicenSure — System License Inspection and Management Software**, replacing the predecessor name **Tool Kiem Tra May Tinh — Computer Configuration and Software License Check Tool**.
-- **Technical release 5.0.0.2:** published on September 8, 2026 with consistent product name, version, and date across the application, documentation, and public channels.
+- **Name and direction:** the official name changed from **Tool Kiem Tra — Computer and Software License Check Tool** to **VietLicenSure — System License Inspection and Management Software**, with one public version name, **v5.0**, across the application, updater, documentation, and GitHub.
+- **Upgrade foundation:** v5.0 is the direct successor to v4.9, retaining its inventory and evidence model while expanding it into a unified system inspection and management workflow.
 - **Source policy:** explains controlled access from v4.9 after the software/predecessor was copied, modified, renamed/repackaged, and published without permission or authorization; documents scope, written access requests, and the absence of a committed reopening date.
 - **Two-way communication:** adds GitHub Issues for bugs, GitHub Discussions for questions/proposals, and Private Security Advisories for vulnerability reports.
-- **User experience:** starts faster, presents a clearer responsive interface, supports Light/Dark modes, and opens the requested function directly.
-- **Inspection and recognition:** offers Quick, Standard, and Deep scans for Windows, Microsoft Office, and other software; prioritizes items and supports search, filters, and previous-scan comparison.
-- **Safe remediation:** separates Windows, Office, and other software; requires preview, Dry Run, backup, confirmation, and post-check; adds an integrity-checked backup and restore center.
-- **Reports and support:** exports HTML, PDF, JSON, and XML; creates privacy-redacted support packages and supports multi-device management.
-- **Privacy and integrity:** remains Offline by default, uploads no data automatically, and checks signatures and SHA-256 before important actions.
+- **Interface and experience:** faster startup, DPI-aware layout, Light/Dark modes, clearer navigation, and direct access to the requested function.
+- **Windows, Office, and software inspection:** Quick, Standard, and Deep modes; broader inventory sources; separate activation, licence type, read failures, and insufficient-evidence results.
+- **Analysis and management:** High–Medium–Low prioritization, search, filters, previous-scan comparison, and multi-device support.
+- **Safe remediation:** separate Windows, Office, and third-party scopes with mandatory preview, Dry Run, backup, confirmation, post-check, and rollback support.
+- **Reports, privacy, and release integrity:** HTML/PDF/JSON/XML/CSV exports, redacted support data, Offline-by-default operation, CMS/SHA-256/Authenticode verification, and updates to the latest approved v5.0 build when Online mode is enabled.
 
 `Unverified` does not mean that software violates its licence.
 

diff --git a/README-MA-NGUON.md b/README-MA-NGUON.md
@@ -1,12 +1,12 @@
 # Hướng dẫn tham gia và tiếp cận mã nguồn có kiểm soát từ v4.9
 
-Áp dụng cho mã nguồn VietLicenSure từ v4.9 trở đi; bản hiện hành là VietLicenSure v5.0, phiên bản kỹ thuật `5.0.0.2`, phát hành ngày `08/09/2026`.
+Áp dụng cho mã nguồn VietLicenSure từ v4.9 trở đi; bản hiện hành là VietLicenSure `v5.0`, phát hành ngày `08/09/2026`.
 
 ## Mô hình phát triển
 
 VietLicenSure được cung cấp miễn phí và phát triển cùng cộng đồng thông qua báo lỗi, đề xuất, tài liệu, bản dịch, kiểm thử và đóng góp kỹ thuật. Kể từ v4.9, mã nguồn không còn được công khai, không được phát hành theo giấy phép mã nguồn mở và được tác giả Thanh Việt quản lý theo cơ chế truy cập có kiểm soát. Bản thực thi chính thức tiếp tục được cung cấp miễn phí tại:
 
-<https://github.com/thanhvietithopnghia-rgb/VietLicenSure/releases/download/v5.0.0.2/VietLicenSure-v5.0.exe>
+<https://github.com/thanhvietithopnghia-rgb/VietLicenSure/releases/download/v5.0/VietLicenSure-v5.0.exe>
 
 Tệp thực thi của nhánh phát triển hiện tại là `VietLicenSure-v5.0.exe`. Chỉ artifact có Authenticode, timestamp và provenance hợp lệ mới được công bố là Stable.
 
@@ -59,7 +59,7 @@ Hiện tại tác giả chưa cam kết ngày mở lại mã nguồn. Chính sá
 
 Trừ khi văn bản chấp thuận ghi rõ khác, quyền truy cập không cho phép:
 
-- sao chép ngoài bản kỹ thuật cần thiết trong môi trường đã được cấp;
+- tạo bản sao ngoài phạm vi tối thiểu cần thiết trong môi trường đã được cấp;
 - chia sẻ tài khoản, chuyển quyền truy cập hoặc cho người khác xem mã;
 - công bố, mirror, tải lên dịch vụ khác hoặc phát tán toàn bộ/một phần mã nguồn;
 - sửa đổi, tạo sản phẩm phái sinh hoặc tích hợp vào sản phẩm/dịch vụ khác;
@@ -90,7 +90,7 @@ Chính sách này chỉ áp dụng cho mã nguồn từ v4.9 trở đi. Phiên b
 
 - [Chính sách phát triển cộng đồng và mã nguồn có kiểm soát](SOURCE-POLICY-v4.9.md)
 - [Thông báo bản quyền và điều khoản sử dụng](LICENSE-NOTICE.txt)
-- [Tải trực tiếp VietLicenSure v5.0.0.2](https://github.com/thanhvietithopnghia-rgb/VietLicenSure/releases/download/v5.0.0.2/VietLicenSure-v5.0.exe)
+- [Tải trực tiếp VietLicenSure v5.0](https://github.com/thanhvietithopnghia-rgb/VietLicenSure/releases/download/v5.0/VietLicenSure-v5.0.exe)
 
 Nếu nội dung tóm tắt này khác với văn bản chấp thuận riêng hoặc chính sách đầy đủ, văn bản chấp thuận và `SOURCE-POLICY-v4.9.md` được ưu tiên áp dụng.
 

diff --git a/DOCUMENTATION-MAP-v5.0.md b/DOCUMENTATION-MAP-v5.0.md
@@ -1,10 +1,10 @@
 # Bản đồ tài liệu VietLicenSure v5.0
 
-Phiên bản áp dụng: **VietLicenSure v5.0.0.2**  
+Phiên bản áp dụng: **VietLicenSure v5.0**
 Kênh áp dụng: **ManagedSigned/Pilot**  
 Ngày chốt hồ sơ: **2026-09-08**
 
-Tài liệu này xác định đâu là hồ sơ hiện hành của v5.0.0.2 và giải thích các tên tệp còn mang mốc v4.8/v4.9. Mốc trong tên tệp là phiên bản hình thành hợp đồng kỹ thuật hoặc chính sách, không phải phiên bản của tệp thực thi đang bàn giao.
+Tài liệu này xác định đâu là hồ sơ hiện hành của v5.0 và giải thích các tên tệp còn mang mốc v4.8/v4.9. Mốc trong tên tệp là phiên bản hình thành hợp đồng kỹ thuật hoặc chính sách, không phải phiên bản của tệp thực thi đang bàn giao.
 
 ## Tài liệu nên đọc trước
 
@@ -23,7 +23,7 @@ Tài liệu này xác định đâu là hồ sơ hiện hành của v5.0.0.2 và
 
 ## Ý nghĩa các tài liệu mang tên v4.8/v4.9
 
-Các tệp sau là **baseline lịch sử vẫn còn hiệu lực trong v5.0.0.2**:
+Các tệp sau là **baseline lịch sử vẫn còn hiệu lực trong v5.0**:
 
 - `TECHNICAL-ARCHITECTURE-v4.8.md`: baseline kiến trúc từ v4.8, được mở rộng bởi hợp đồng mô-đun và hồ sơ release v5.0.
 - `ENTRY-POINTS-v4.8.md`: baseline điểm vào; danh sách thực tế được kiểm tra lại khi build v5.0.
@@ -32,7 +32,7 @@ Các tệp sau là **baseline lịch sử vẫn còn hiệu lực trong v5.0.0.2
 - `SECURITY-HARDENING-v4.8.md`: baseline hardening PE/runtime; không đồng nghĩa mọi kiểm soát native như CFG đều đã có.
 - `SOURCE-POLICY-v4.9.md`: chính sách mã nguồn có kiểm soát bắt đầu từ v4.9 và tiếp tục áp dụng cho v5.0.
 
-Không dùng riêng các baseline trên để tuyên bố một bản v5.0.0.2 đã vượt qua nghiệm thu. Tuyên bố phát hành phải đồng thời khớp `RELEASE-MANIFEST.json`, `SBOM.cdx.json`, provenance có chữ ký và bằng chứng kiểm thử gắn đúng commit/build.
+Không dùng riêng các baseline trên để tuyên bố một bản v5.0 đã vượt qua nghiệm thu. Tuyên bố phát hành phải đồng thời khớp `RELEASE-MANIFEST.json`, `SBOM.cdx.json`, provenance có chữ ký và bằng chứng kiểm thử gắn đúng commit/build.
 
 ## Thứ tự ưu tiên khi có khác biệt
 

diff --git a/USER-GUIDE-en-US.md b/USER-GUIDE-en-US.md
@@ -28,7 +28,7 @@ VietLicenSure is Offline by default and does not automatically upload inventory 
 5. Ensure the system drive and Desktop have enough free space for backups and report packages.
 6. Keep Offline enabled unless you intentionally need a catalog update or authorized LAN management.
 
-A Stable single-file EXE carries a trusted signature and provenance manifest for tamper detection. Verification does not remove every SmartScreen warning and cannot absolutely prevent copying or reverse engineering. Download the official build directly from <https://github.com/thanhvietithopnghia-rgb/VietLicenSure/releases/download/v5.0.0.2/VietLicenSure-v5.0.exe>, compare SHA-256, Build ID, signature, and provenance data, inspect the certificate with `Get-AuthenticodeSignature`, and scan with Microsoft Defender. Do not disable Defender or SmartScreen. On a managed computer, contact the administrator if AppLocker or WDAC blocks it.
+A Stable single-file EXE carries a trusted signature and provenance manifest for tamper detection. Verification does not remove every SmartScreen warning and cannot absolutely prevent copying or reverse engineering. Download the official build directly from <https://github.com/thanhvietithopnghia-rgb/VietLicenSure/releases/download/v5.0/VietLicenSure-v5.0.exe>, compare SHA-256, Build ID, signature, and provenance data, inspect the certificate with `Get-AuthenticodeSignature`, and scan with Microsoft Defender. Do not disable Defender or SmartScreen. On a managed computer, contact the administrator if AppLocker or WDAC blocks it.
 
 ## How to run VietLicenSure
 

diff --git a/SOURCE-POLICY-v4.9.md b/SOURCE-POLICY-v4.9.md
@@ -1,6 +1,6 @@
 # Chính sách phát triển cộng đồng và mã nguồn có kiểm soát từ v4.9
 
-> **Trạng thái tài liệu:** Chính sách bắt đầu từ v4.9 và tiếp tục áp dụng cho VietLicenSure v5.0.0.2; hậu tố tệp được giữ để truy vết thời điểm chính sách có hiệu lực. Cập nhật gần nhất: 08/09/2026.
+> **Trạng thái tài liệu:** Chính sách bắt đầu từ v4.9 và tiếp tục áp dụng cho VietLicenSure v5.0; hậu tố tệp được giữ để truy vết thời điểm chính sách có hiệu lực. Cập nhật gần nhất: 08/09/2026.
 
 Copyright © 2026 Thanh Việt. Mọi quyền được bảo lưu.
 
@@ -87,7 +87,7 @@ dữ liệu cá nhân hoặc lỗ hổng chưa được khắc phục. Lỗ hổ
 
 Trừ khi văn bản chấp thuận cho phép rõ ràng, người được truy cập không được:
 
-- sao chép mã ngoài bản kỹ thuật tối thiểu cần thiết trong môi trường được cấp;
+- sao chép mã ngoài phạm vi tối thiểu cần thiết trong môi trường được cấp;
 - chia sẻ tài khoản, chuyển quyền truy cập hoặc để người không được duyệt xem mã;
 - công bố, mirror, tải lên kho/dịch vụ khác hoặc phát tán toàn bộ hay một phần mã;
 - sửa đổi, tạo sản phẩm phái sinh, đóng gói hoặc tích hợp vào sản phẩm/dịch vụ;

diff --git a/SECURITY-TEST-RESULTS.md b/SECURITY-TEST-RESULTS.md
@@ -34,8 +34,8 @@ Giới hạn: VM tự động không chứng minh không có lỗ hổng; nó ch
 
 - Source snapshot được provenance ràng buộc: `580f68579e50f09f67ae10db330a316262325c3b`.
 - Môi trường chạy: Microsoft Windows 11 Pro 64-bit, phiên bản `10.0.26200`, PowerShell `5.1.26100.9168`.
-- Chế độ bản dựng: `ManagedSigned`; Build ID `5.0.0.2-production-20260908`.
[1 lines of base64/hex data omitted]
+- Chế độ bản dựng: `ManagedSigned`; Build ID `5.0-production-20260908`.
+- Tệp thực thi: `VietLicenSure-v5.0.exe`; SHA-256 được tạo theo từng build ký số và công bố trong `RELEASE-SHA256SUMS.txt`, `RELEASE-MANIFEST.json` cùng `update-manifest-v1.json` của chính gói đó.
 - Authenticode: `Valid`; signer thumbprint `ABE70696679B1D8987A2D5B1F6C1C6909D364CEA`; có timestamp DigiCert.
 - `VERIFY-DISTRIBUTION.ps1`: `0 lỗi / 0 cảnh báo / 9 mục đạt`; tập đóng gồm 50 tệp; bốn chữ ký CMS được xác minh trên đúng byte tệp JSON.
 - Ca âm tính: đổi một ký tự trong `OFFICIAL-PROVENANCE-v1.json` rồi tạo lại checksum; verifier vẫn từ chối với mã thoát `1`, báo CMS không hợp lệ và source snapshot trong SBOM không khớp.

diff --git a/SUPPORT.md b/SUPPORT.md
@@ -1,7 +1,6 @@
 # Hỗ trợ VietLicenSure
 
-Tài liệu này áp dụng cho **VietLicenSure v5.0**; bản kỹ thuật hiện hành là
-`5.0.0.2`, phát hành ngày `08/09/2026`.
+Tài liệu này áp dụng cho bản phát hành hiện hành **VietLicenSure v5.0**, phát hành ngày `08/09/2026`.
 
 ## Chọn đúng kênh
 
@@ -13,7 +12,7 @@ Tài liệu này áp dụng cho **VietLicenSure v5.0**; bản kỹ thuật hiệ
 
 ## Thông tin nên gửi khi báo lỗi
 
-1. Phiên bản hiển thị và mã kỹ thuật, ví dụ `VietLicenSure v5.0 / 5.0.0.2`.
+1. Phiên bản hiển thị, ví dụ `VietLicenSure v5.0`.
 2. Phiên bản Windows, kiến trúc máy và quyền chạy lúc xảy ra lỗi.
 3. Tên chức năng, bước tái hiện ngắn nhất, kết quả mong đợi và kết quả thực tế.
 4. Nguyên văn mã lỗi/thông báo và ảnh chụp đã che dữ liệu riêng tư.

diff --git a/QUICK-START-v5.0.md b/QUICK-START-v5.0.md
@@ -1,13 +1,13 @@
 # Bắt đầu nhanh với VietLicenSure v5.0
 
 **Tên đầy đủ:** VietLicenSure — Phần mềm Kiểm tra và Quản lý Bản quyền Hệ thống
-**Phiên bản kỹ thuật:** `5.0.0.2`
+**Phiên bản:** `v5.0`
 **Ngày phát hành:** `08/09/2026`
 **Kênh:** `ManagedSigned/Pilot` — chưa mang nhãn `Public Stable`
 
 ## 1. Xác minh trước khi chạy
 
-Chỉ tải trực tiếp từ <https://github.com/thanhvietithopnghia-rgb/VietLicenSure/releases/download/v5.0.0.2/VietLicenSure-v5.0.exe>. Với gói đầy đủ, giữ nguyên toàn bộ tệp rồi nhấp đúp:
+Chỉ tải trực tiếp từ <https://github.com/thanhvietithopnghia-rgb/VietLicenSure/releases/download/v5.0/VietLicenSure-v5.0.exe>. Với gói đầy đủ, giữ nguyên toàn bộ tệp rồi nhấp đúp:
 
 ```bat
 VERIFY-RELEASE.cmd
